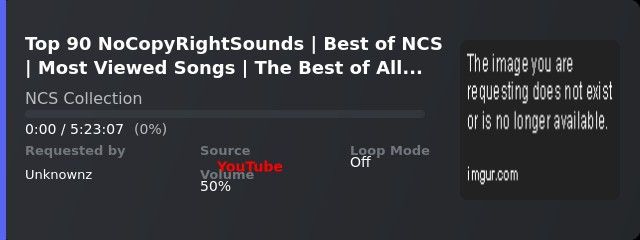
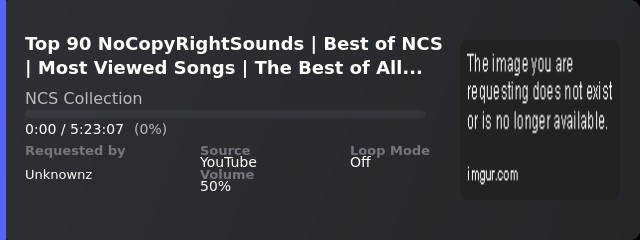
Fix: Revert YouTube text styling to previous behavior.  The YouTube source text is no longer oversized and is displayed like other sources.
Replit-Commit-Author: Agent
Replit-Commit-Session-Id: bc479a2b-145e-47cc-92ff-46cafaf25bad

Changed region(s): [[0.3125, 0.6417, 0.4375, 0.7292]]

diff --git a/utils/imageCard.js b/utils/imageCard.js
@@ -179,22 +179,16 @@ async function generateMusicCard(options = {}) {
         const sourceIconY = infoY + 12;
         const iconSize = 14;
         
-        // Handle YouTube differently - no icon, just centered text
+        // Handle YouTube normally like other text, but without an icon
         if (sourceName.toLowerCase() === 'youtube') {
-            // Set text properties for centered YouTube text
-            ctx.textAlign = 'center';
-            ctx.textBaseline = 'middle';
-            ctx.fillStyle = '#FF0000'; // YouTube red
-            ctx.font = 'bold 14px Arial';
-            
-            // Draw YouTube text centered
-            ctx.fillText('YouTube', column2X + 50, sourceIconY);
-            
-            // Reset text properties
+            // Just draw the YouTube text in normal style
+            ctx.fillStyle = '#ffffff';
             ctx.textAlign = 'left';
             ctx.textBaseline = 'alphabetic';
-            ctx.fillStyle = '#ffffff';
             ctx.font = '14px Arial';
+            
+            // Draw YouTube text in normal position
+            ctx.fillText('YouTube', column2X, infoY + 12);
         } else {
             // For other sources, keep the icon approach
             // Source icon background circle
